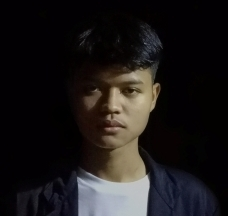
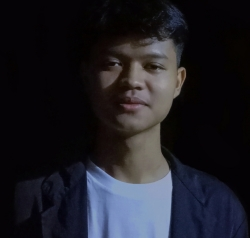
update photo profile and delete demo

Changed region(s): [[0.0614, 0.0278, 1.0, 1.0], [0.3377, 0.1389, 0.3991, 0.2222], [0.7675, 0.9167, 0.7982, 0.9444]]

diff --git a/index.html b/index.html
@@ -63,7 +63,7 @@
         <div>
             <div class="jumbotron p-5">
                 <center>
-                    <img src="img/IMG20211014212822_00.jpg" alt="" class="shadow img-fluid rounded-circle" id="img-header">
+                    <img src="img/me.jpg" alt="" class="shadow img-fluid rounded-circle" id="img-header">
                     <div class="h1 mb-0" id="text-header"></div>
                     <!-- <div class=" h5 ">Explore now</div> -->
                 </center>
@@ -199,9 +199,6 @@
                                 <h5 class="card-title">E-Voting (Pilketos)</h5>
                                 <p class="card-text">Aplikasi voting berbasis website yang dilakukan secara online.</p>
                             </div>
-                            <div class="card-footer">
-                                <div>Demo tidak tersedia</div>
-                            </div>
                         </div>
                     </a>
                 </div>
@@ -213,9 +210,6 @@
                                 <h5 class="card-title">Landing page</h5>
                                 <p class="card-text">Desain website yang dibangun menggunakan Bootstrap versi 4.</p>
                             </div>
-                            <div class="card-footer">
-                                <a class="text-light" target="_blank" href="https://rawcdn.githack.com/ryanm1928/Landing-page/0700917855aec71c0272a7ebd4cc4387664c6020/index.html">Demo</a>
-                            </div>
                         </div>
                     </a>
                 </div>
@@ -226,9 +220,6 @@
                             <div class="card-body text-light">
                                 <h5 class="card-title">Remake design web</h5>
                                 <p class="card-text">Project Remake design website playday.id project dari gamelab</p>
-                            </div>
-                            <div class="card-footer">
-                                <a class="text-light" target="_blank" href="https://rawcdn.githack.com/ryanm1928/ProjectRemakeFrontendPlayday.id/34ddcb0a8d85fe00288c6877bc504116510673f7/index.html">Demo</a>
                             </div>
                         </div>
                     </a>
@@ -285,11 +276,11 @@
                     <form name="form-contact" class="mb-4">
                         <div class="form-group">
                             <label class="text-light">Nama:</label>
-                            <input type="text" class="form-control" name="nama" placeholder="Masukan nama.." required >
+                            <input autocomplete="off" type="text" class="form-control" name="nama" placeholder="Masukan nama.." required >
                         </div>
                         <div class="form-group">
                             <label for="exampleInputEmail1 " class="text-light">Email:</label>
-                            <input type="email" class="form-control" name="email" placeholder="Masukan email.." required>
+                            <input autocomplete="off" type="email" class="form-control" name="email" placeholder="Masukan email.." required>
                             <small class="form-text text-light">We'll never share your email with anyone else.</small>
                         </div>
                         <div class="form-group">
